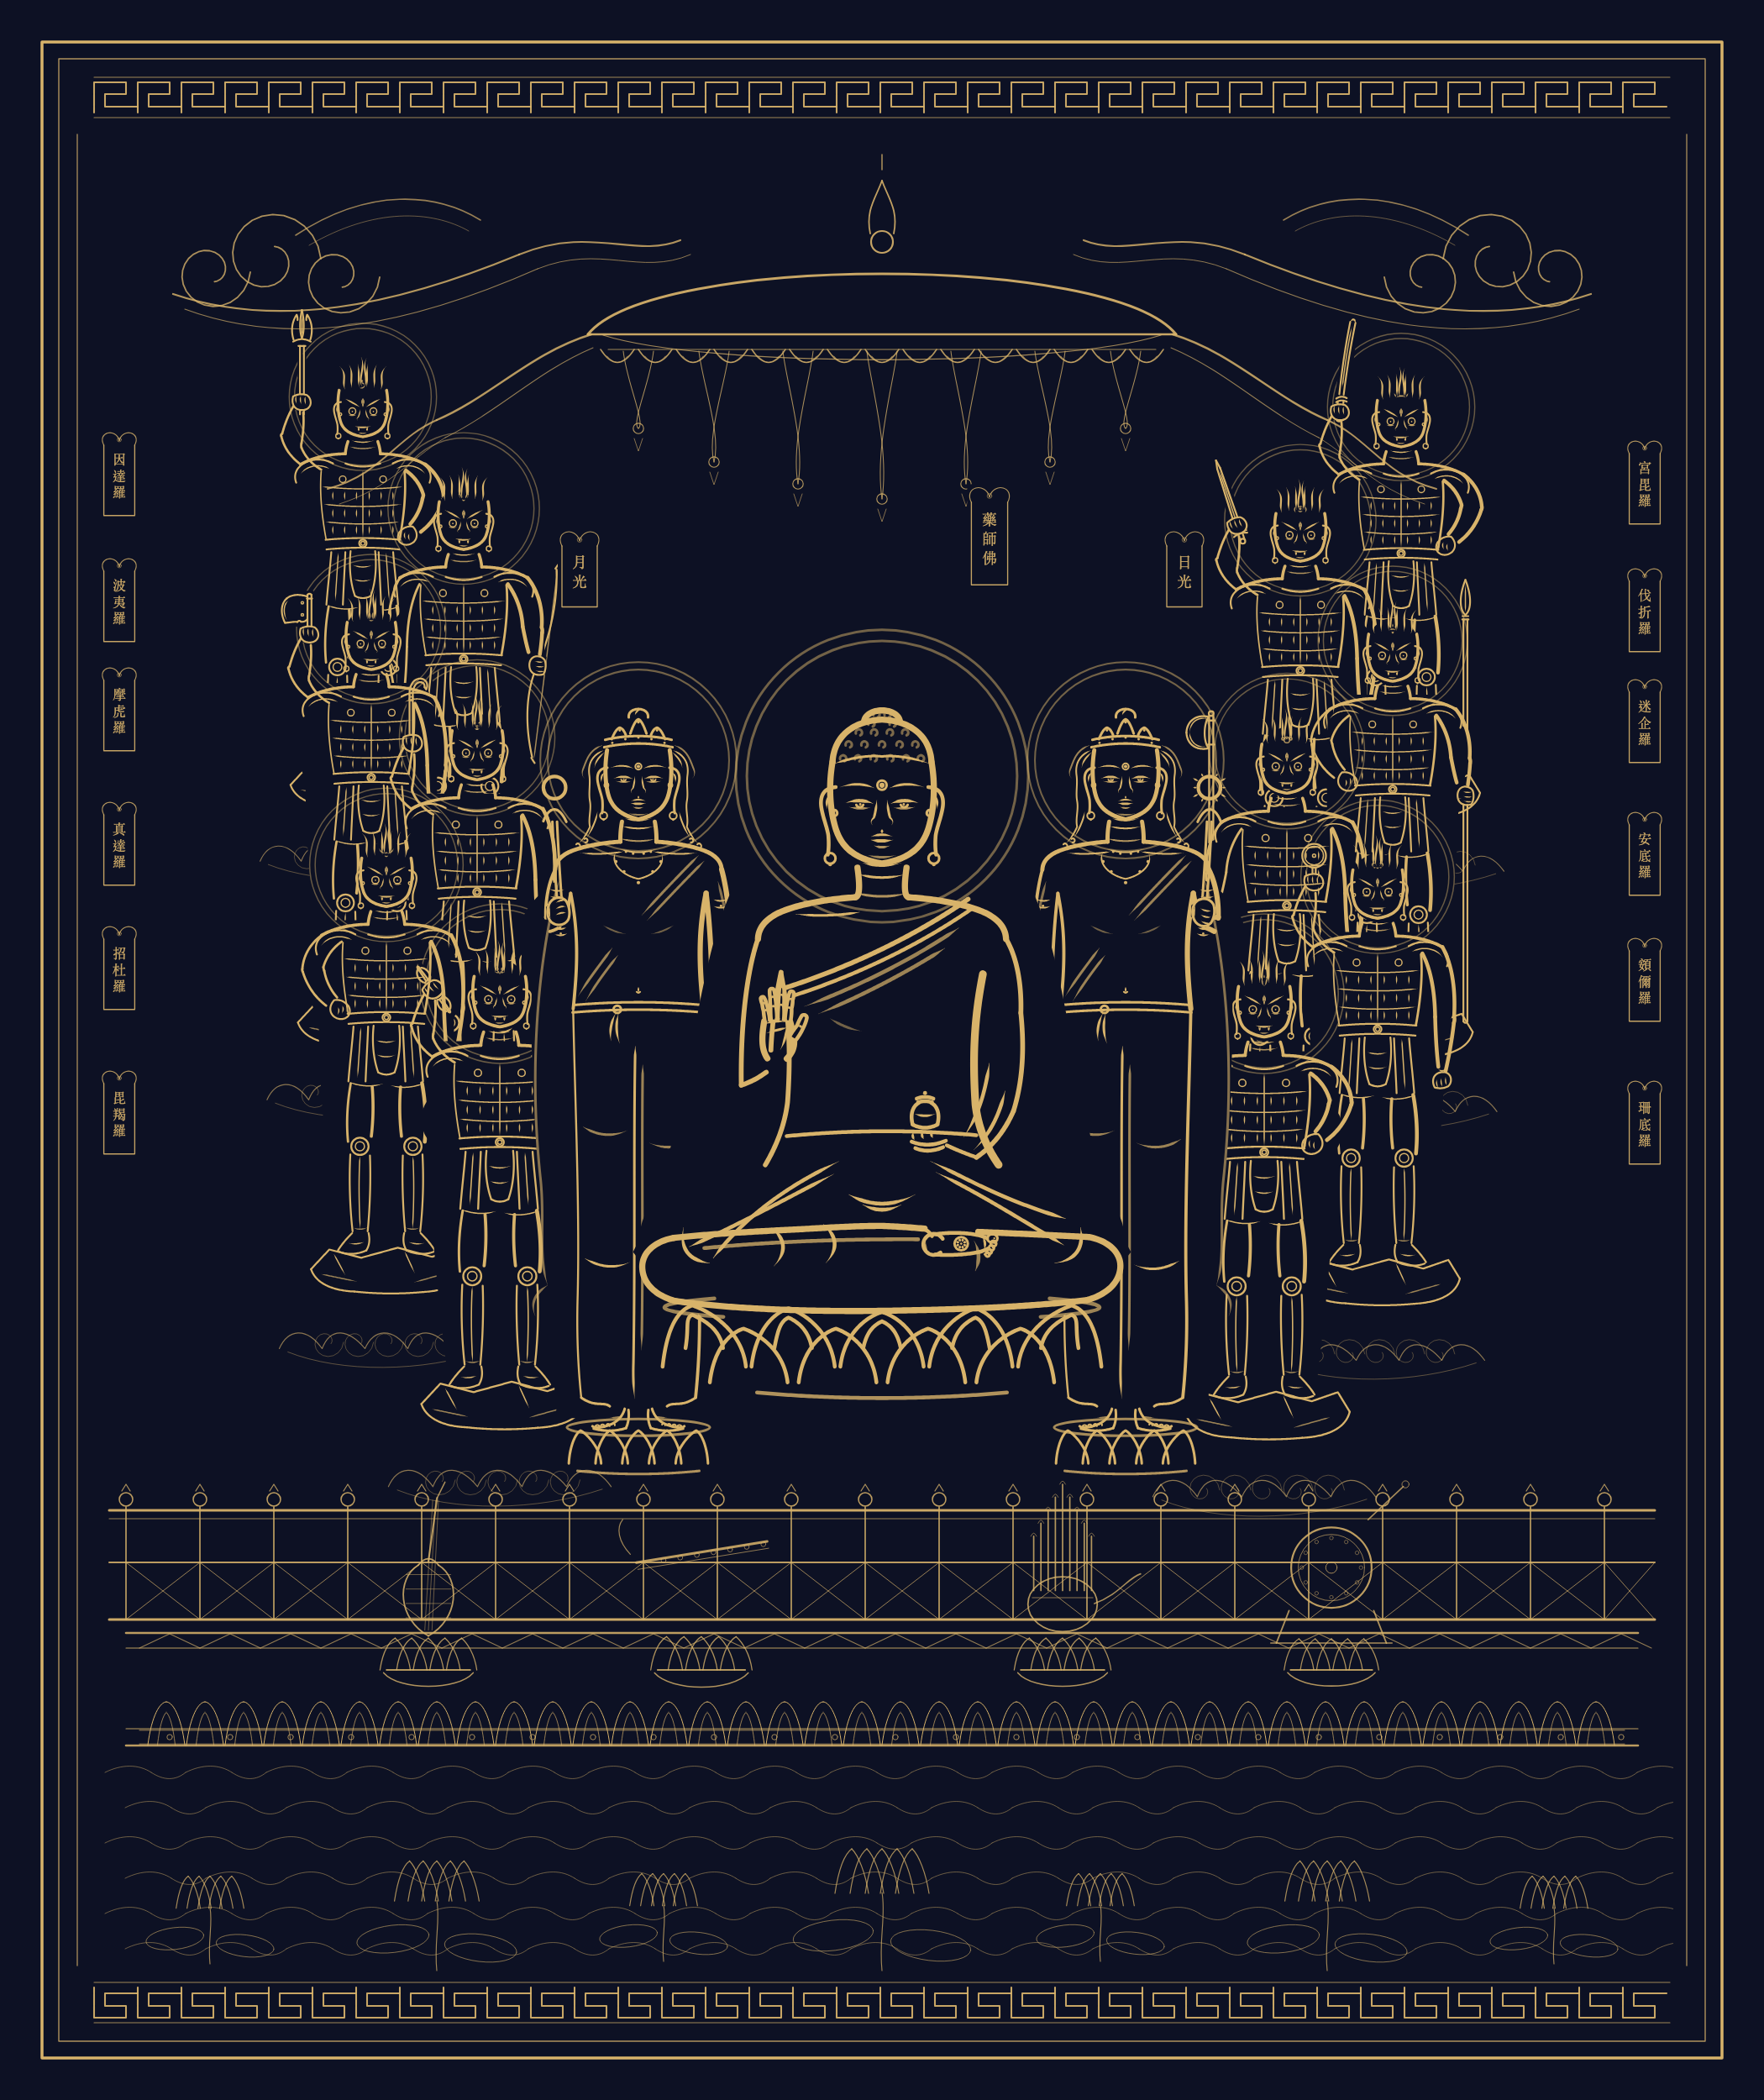
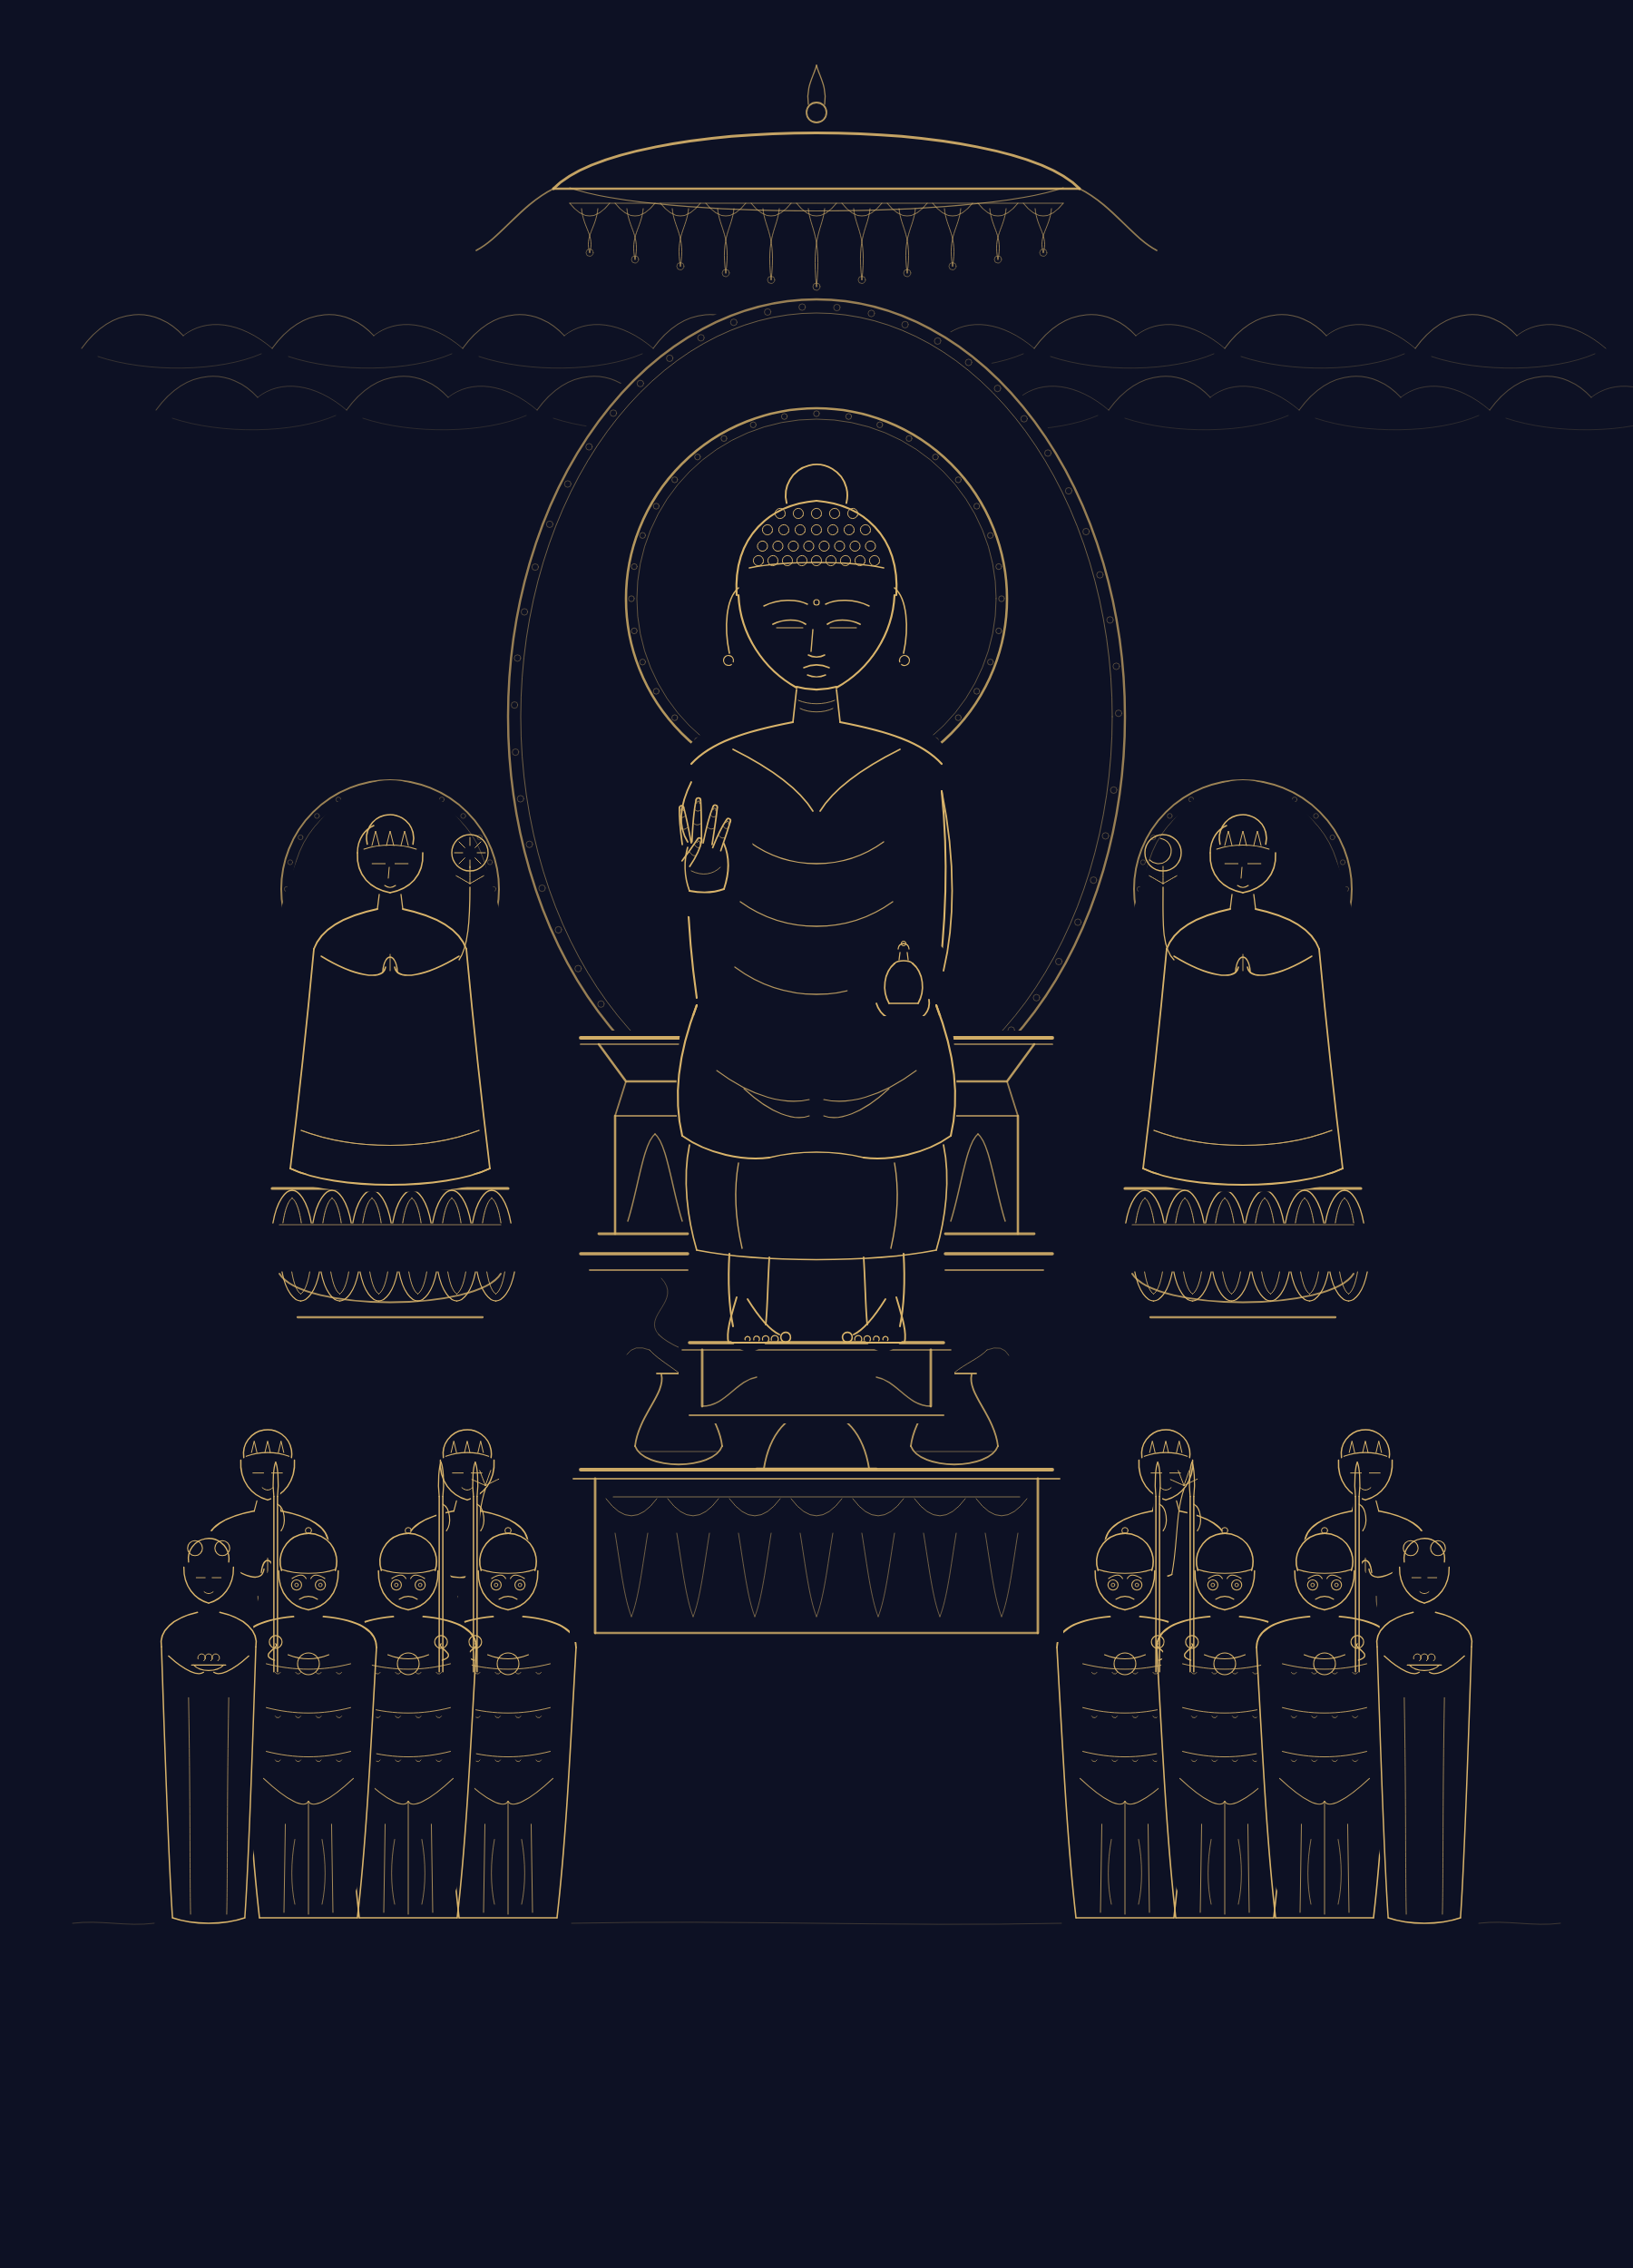
明水陸雙塔藥師會復活為正稿：先生親裁歸位，飾深至 13.41 過線——甲程十四席全簿
甲程末席。先生 2026-07-14 裁「這一張其實畫得很好」——雙塔本（十二神將
疊作左右二塔・日月大脅侍・十五榜題全系，十五尊皆自 dist 已核親筆活渲）
自退役線復活歸正陳；倚坐十五身版退居 -已退役 檔存卷（不抹之律），其層檔
留卷並注防覆之戒。飾深單（Codex）：華蓋珠網流蘇焰珠・飛雲芯線・欄楯
菱點木紋・蓮池葉脈十六向全周（審一疵即修）瓣心錯波珠沫・雲腳芯旋・
框緣連珠。密度 3.13（倚坐）→10.56（復活）→13.41%（底線13.28）✓；
尊域對改前逐像素 diff=0 之證。館牌改記復活之由。

diff --git a/匠筆-主坊/風格館/漢地-明水陸-尊身層.js b/匠筆-主坊/風格館/漢地-明水陸-尊身層.js
@@ -1,3 +1,6 @@
+// 【退役線注意】先生 2026-07-14 裁：雙塔藥師會（漢地-明水陸-候展稿.cjs）復活為
+// 正稿；此層檔（倚坐十五身）退役存卷。**勿以 合席.cjs 漢地-明水陸 出圖**——
+// 彼將覆正稿；欲觀此線，出圖後改名 -已退役 檔。
 // 漢地-明水陸 · 尊身層（主坊親筆・一稿）—— 分層之制 層二
 // 藥師佛會十五身（明水陸壁畫式）。
 // 考據（先看後畫，親觀全幅）：參攷-local/風格館/漢地/met-65.29.2-yaoshi-fohui.jpg

diff --git a/index.html b/index.html
@@ -1656,7 +1656,7 @@
                 <h4>藥師會水陸一鋪<small>漢地室 · 明水陸 · 分層合成</small></h4>
                 <div class="章列"><span class="章">候審 · 朱界</span></div>
               </header>
-              <div class="牌尾"><p>主尊倚坐垂足（簾覆座前板・壺坐掌2px・足貼踏几1480）・日光月光戴日月輪盤坐貼蓮4px・兩翼十五身成會（神將甲鱗戰裙・供養捧盤三花點驗・前覆後之深）・五錨貝真中繫實（廣勝寺 Met 65.29.2 親觀）</p><span class="章">全件已成 · 候館主過目</span></div>
+              <div class="牌尾"><p>雙塔藥師會復活為正稿（先生 2026-07-14 親裁「這一張其實畫得很好」）——十二神將疊作左右二塔・日月大脅侍・十五榜題全系・華蓋欄楯樂供蓮池帶帶有紋；十五尊皆自 dist 已核親筆活渲；倚坐十五身版退居存檔廊</p><span class="章">全件已成 · 候先生過目</span></div>
             </div>
           </article>
         </div>